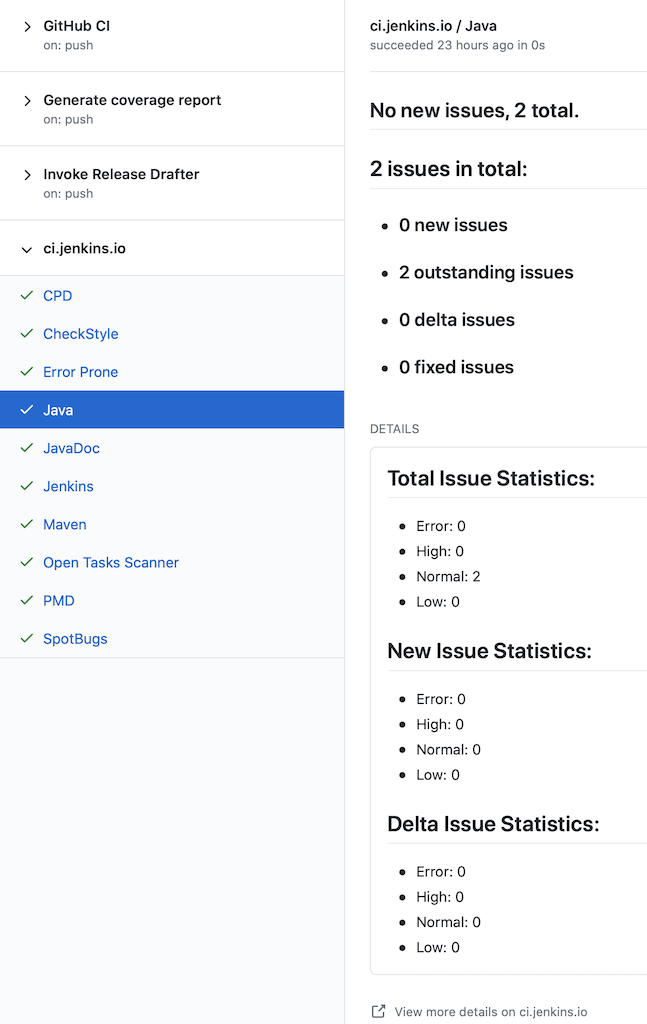
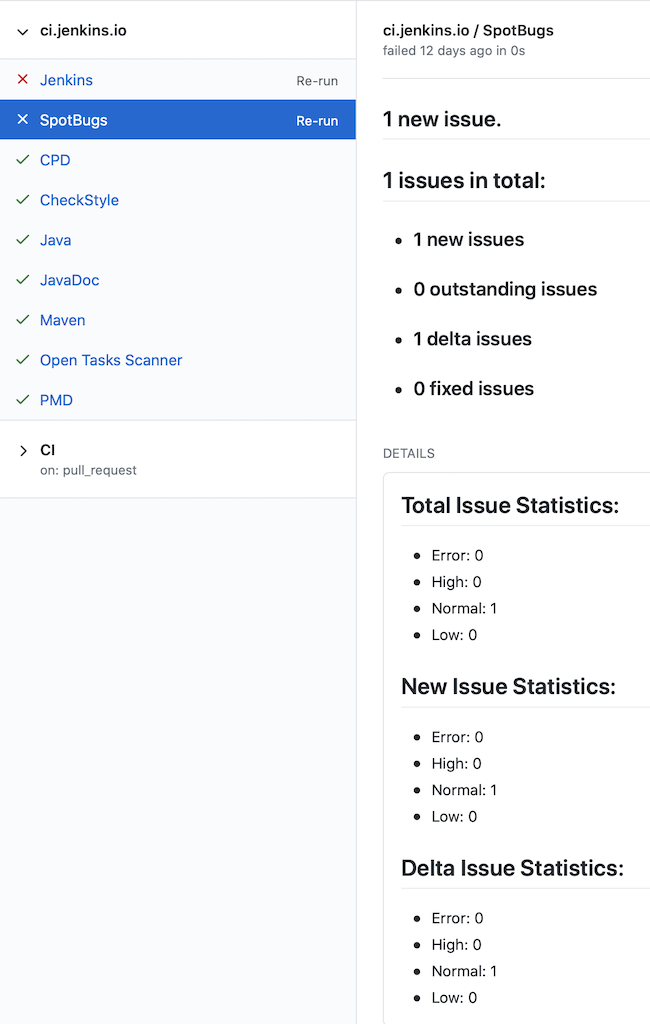
Add checks quality gate document

diff --git a/doc/Documentation.md b/doc/Documentation.md
@@ -916,7 +916,13 @@ Examples:
 * the configuration of GitHub App credentails, see [this guide](https://github.com/jenkinsci/github-branch-source-plugin/blob/master/docs/github-app.adoc) for more details
 
 If not disabled in the job configuration, this plugin will publish warnings to GitHub through [GitHub checks API](https://docs.github.com/en/rest/reference/checks).
-In the *Checks* view of each pull request ([example](https://github.com/jenkinsci/warnings-ng-plugin/pull/593/checks?check_run_id=1026691589)), issues statistics will be displayed.
+
+Each analysis tool is published as an individual check, the quality gate is published as the check result.
+
+![check quality gate](images/check-quality-gate.png)
+
+
+In the *Details* view of each check ([example](https://github.com/jenkinsci/warnings-ng-plugin/pull/593/checks?check_run_id=1026691589)), issues statistics will be displayed.
 
 ![checks](images/checks.png)
 
